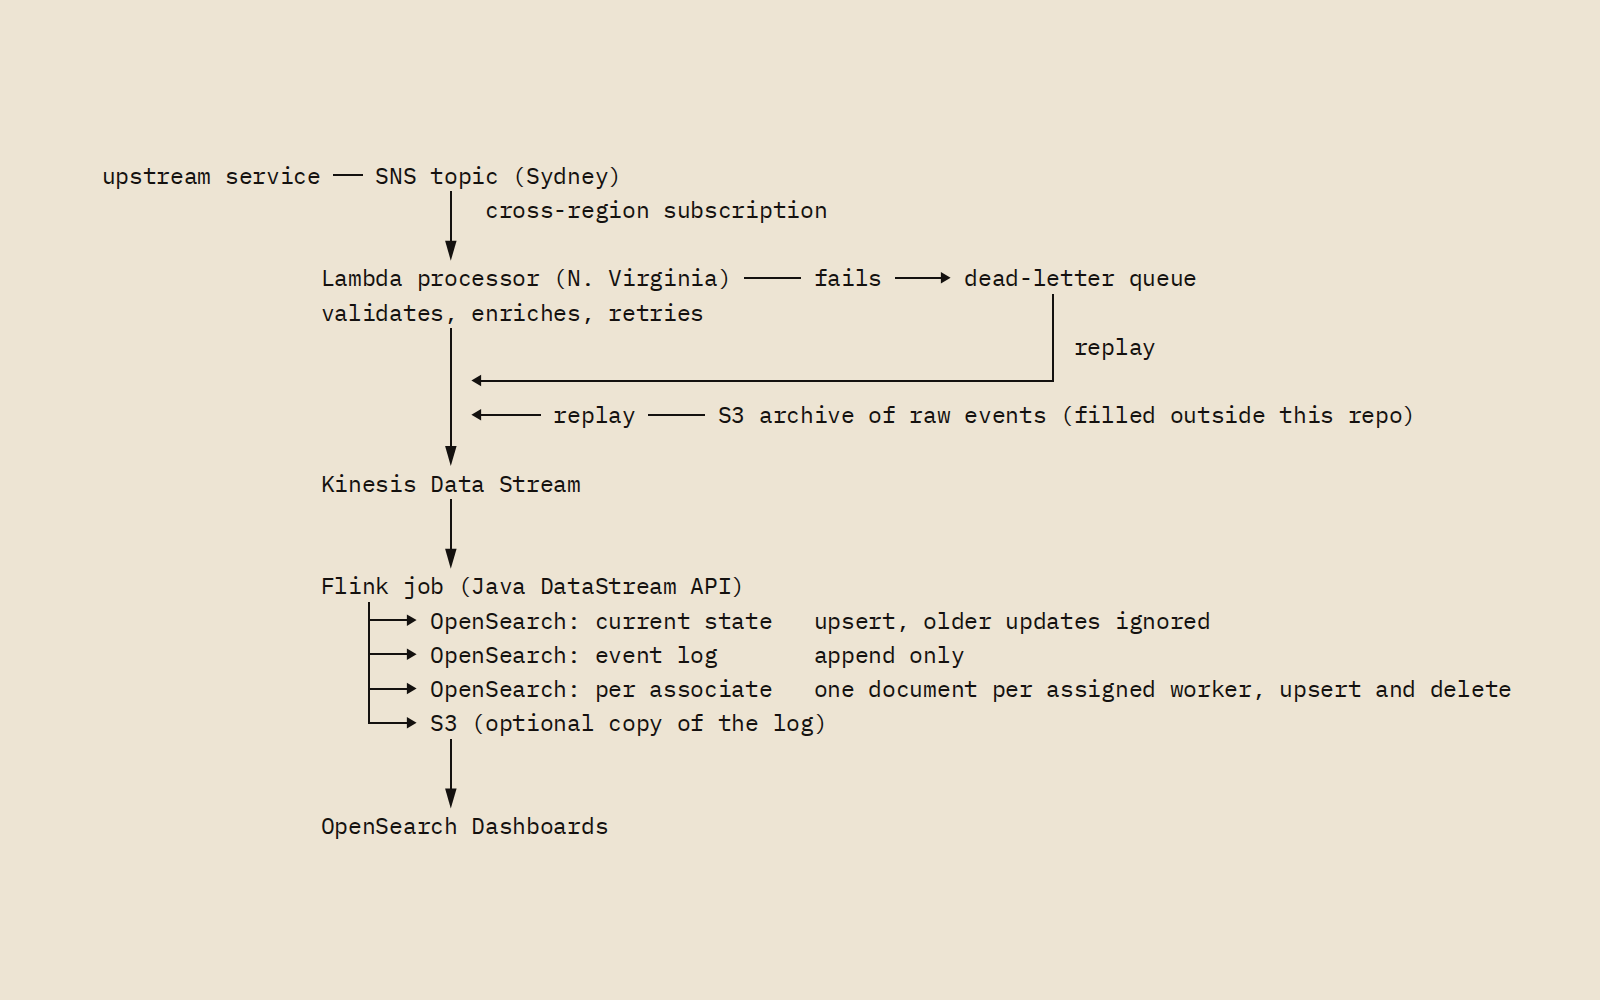
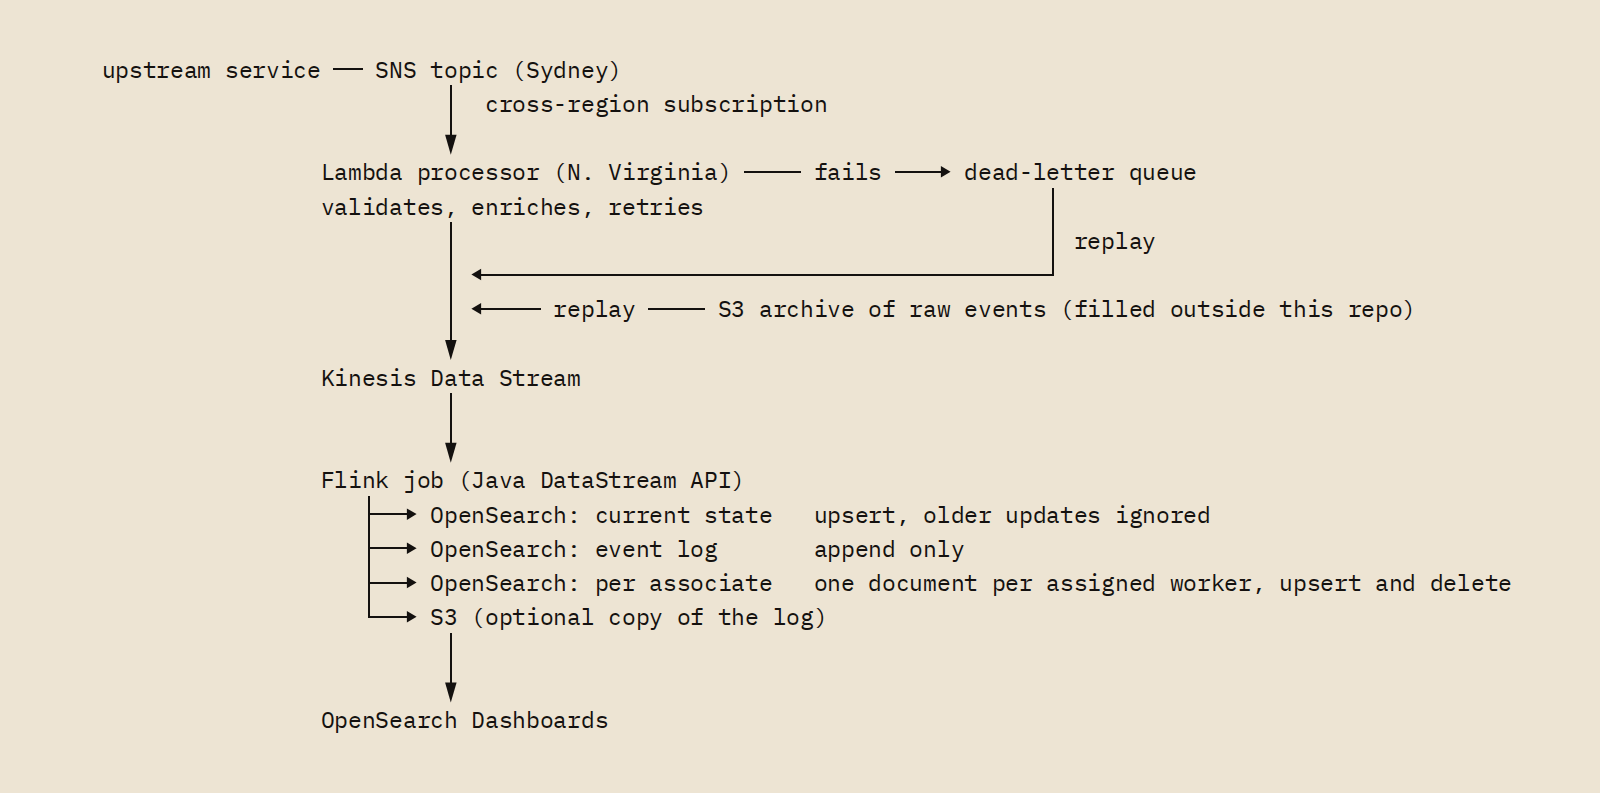
Open a visit's first window nearly full height, and give the Mercor row its number
The first project a hiring manager saw was a dark box reading "No public pictures",
the Projects list opened at 640 x 520 (4 of 17 rows), and a project page's first
screen was its title, summary and a cover with about 80 px of empty band above and
below, so the first sentence of prose sat below the fold (T52 review, fix 7).

- A visit's first window (the boot's About, or the window a window address names;
  the room flags it in its open message) opens at max(own width, 880) by the
  desktop's height less 24 px. Later windows cascade at their own sizes; the
  Personal folder keeps its size.
- The Mercor row shows a typographic card, "88 million / mentions resolved in one
  run": the project page's own line ("One run of entity resolution resolved 88
  million mentions") and résumé YAML line 34 ("resolved 88M mentions in one run").
- The six paper-ground diagram covers lose their empty bands, down to a 6 % margin
  (lossless PNG crops; photos and white-ground figures unchanged).

diff --git a/src/os/wm/windows.ts b/src/os/wm/windows.ts
@@ -40,6 +40,8 @@ export type WindowsAction =
       desktop: { width: number; height: number };
       focus: boolean;
       origin?: Point | null;
+      /** The window a visit lands on (a window address); the boot's own window is first anyway. */
+      first?: boolean;
     }
   | { type: 'focus'; id: string }
   | { type: 'close'; id: string }
@@ -81,7 +83,7 @@ export function windowsReducer(state: WindowsState, action: WindowsAction): Wind
         z: state.nextZ,
         minimized: false,
         maximized: false,
-        frame: frameFor(action.route, state.cascade, action.desktop),
+        frame: frameFor(action.route, state.cascade, action.desktop, action.first || state.cascade === 0),
         focusRequest: action.focus ? 1 : 0,
         origin: action.origin ?? null,
       };
@@ -146,6 +148,10 @@ const ICON_ROW = 88;
 const ICON_COLUMN = 92;
 const ICONS_TOP = 12;
 const CASCADE_STEP = 28;
+// A visit's first window (About, or the window its address names) stands nearly the desktop's height, so its opening
+// lines are above the fold; later windows cascade at their own sizes.
+const FIRST_WIDTH = 880;
+const FIRST_MARGIN = 12;
 
 // Short desktops wrap the icons into more columns; new windows open to the right of all of them.
 function iconGutter(desktopHeight: number): number {
@@ -154,12 +160,17 @@ function iconGutter(desktopHeight: number): number {
 }
 
 /** Where a new window opens: cascading down-right from the icon column, always inside the desktop. */
-export function frameFor(route: Route, cascade: number, desktop: { width: number; height: number }): Frame {
+export function frameFor(route: Route, cascade: number, desktop: { width: number; height: number }, first = false): Frame {
   const size = route.slug && (route.app === 'projects' || route.app === 'blog') ? SIZES.reader : SIZES[route.app];
+  const clamp = (value: number, max: number) => Math.max(8, Math.min(value, max));
+  // The folder is a handful of icons: it keeps its size even when it opens first.
+  if (first && route.app !== 'personal') {
+    const width = Math.min(Math.max(size.width, FIRST_WIDTH), desktop.width - 16);
+    return { x: clamp(iconGutter(desktop.height), desktop.width - width - 8), y: FIRST_MARGIN, width, height: desktop.height - 2 * FIRST_MARGIN };
+  }
   const width = Math.min(size.width, desktop.width - 16);
   const height = Math.min(size.height, desktop.height - 16);
   const step = (cascade % 8) * CASCADE_STEP;
-  const clamp = (value: number, max: number) => Math.max(8, Math.min(value, max));
   return {
     x: clamp(iconGutter(desktop.height) + step, desktop.width - width - 8),
     y: clamp(16 + step, desktop.height - height - 8),

diff --git a/tests/os.spec.ts b/tests/os.spec.ts
@@ -306,6 +306,32 @@ test.describe('desktop', () => {
     await expect(caption.getByRole('link')).toHaveAttribute('href', /10\.1371\/journal\.pone\.0319532/);
   });
 
+  /**
+   * Catches a visit's first window opening at its list or reader size, with its opening lines below the fold, and
+   * later windows that stop cascading at their own size (T52 fix 7).
+   */
+  test('the first window of a visit stands nearly the desktop’s height; later ones cascade at their own size', async ({ page }) => {
+    await page.goto(`/os?embed=1#projects/${PROJECT.slug}`);
+    const desktop = (await page.locator('.os-desktop').boundingBox())!;
+    const first = page.getByRole('dialog', { name: PROJECT.title });
+    // Polled, because a window opens on a spring from 94% scale.
+    await expect.poll(async () => (await first.boundingBox())!.height).toBeGreaterThan(desktop.height - 30);
+    await page.getByRole('navigation', { name: 'Apps' }).getByRole('button', { name: 'Writing', exact: true }).dblclick();
+    const later = page.getByRole('dialog', { name: 'Writing' });
+    await expect.poll(async () => (await later.boundingBox())!.height).toBeLessThan(desktop.height - 100);
+    expect((await later.boundingBox())!.y).toBeGreaterThan((await first.boundingBox())!.y);
+  });
+
+  /** Catches the first project a hiring manager sees showing "No public pictures" instead of its one number (T52 fix 7). */
+  test('Projects opens on the Mercor work with its number in place of a picture', async ({ page }) => {
+    await page.goto('/os?embed=1#projects');
+    const list = page.getByRole('dialog', { name: 'Projects' });
+    const first = list.locator('.os-row').first();
+    await expect(first).toHaveAttribute('href', '#projects/entity-resolution-and-anonymization');
+    await expect(first.locator('.os-thumb-card')).toHaveText('88 million mentions resolved in one run');
+    await expect(list.getByText('No public pictures')).toHaveCount(0);
+  });
+
   /** Catches a Films window that stops explaining its list: the label, the stars and when the diary last updated. */
   test('Films labels the diary and shows when it last updated', async ({ page }) => {
     // One more entry than the window shows at first, so the older entries are one button away.

diff --git a/src/scene/Application/MonitorScreen.ts b/src/scene/Application/MonitorScreen.ts
@@ -17,6 +17,11 @@ export type MonitorEvent =
   /** Escape that the OS itself did not use (no menu open): the visitor wants out of the screen. */
   | { type: 'escape' };
 
+export interface OpenOptions {
+  /** The window the visit lands on (a window address): SaahilOS opens it at the height of a visit's first window. */
+  first?: boolean;
+}
+
 /**
  * The monitor as Henry built it: a CSS3D iframe placed at the glass, an invisible GL plane that writes alpha 0 so the
  * iframe shows through (and nearer geometry still covers it), and glass layers drawn over the hole.
@@ -29,7 +34,7 @@ export class MonitorScreen {
   private readonly normal: THREE.Vector3;
   private readonly pixelSize: { width: number; height: number };
   private ready = false;
-  private queued: string | null = null;
+  private queued: { target: string; options: OpenOptions } | null = null;
   private readonly onMessage: (event: MessageEvent) => void;
 
   constructor(
@@ -119,10 +124,11 @@ export class MonitorScreen {
   }
 
   /** Opens an app in the OS (PLAN 3.7 target, e.g. "about" or "films/la-la-land"), once the OS says it is ready. */
-  open(target: string) {
+  open(target: string, options: OpenOptions = {}) {
     if (!this.iframe) return;
-    if (this.ready && this.iframe.contentWindow) this.iframe.contentWindow.postMessage({ type: 'open', target }, location.origin);
-    else this.queued = target;
+    if (this.ready && this.iframe.contentWindow) {
+      this.iframe.contentWindow.postMessage({ type: 'open', target, first: Boolean(options.first) }, location.origin);
+    } else this.queued = { target, options };
   }
 
   /** The OS's front window (`films`, `about/…`, or '' for none): SaahilOS names it in its own location hash. */
@@ -151,9 +157,9 @@ export class MonitorScreen {
       case 'os-ready':
         this.ready = true;
         if (this.queued) {
-          const target = this.queued;
+          const { target, options } = this.queued;
           this.queued = null;
-          this.open(target);
+          this.open(target, options);
         }
         break;
       case 'escape':

diff --git a/src/os/apps/Lists.tsx b/src/os/apps/Lists.tsx
@@ -1,6 +1,6 @@
 import { PixelIcon } from '../assets/PixelIcon';
 import { formatDay } from '../format';
-import type { OsApi, OsImage, OsProject } from '../types';
+import type { OsApi, OsImage, OsProject, OsProjectCard } from '../types';
 
 export interface Row {
   href: string;
@@ -10,10 +10,18 @@ export interface Row {
   metaDateTime?: string;
   /** Present on rows that show a picture: the cover, or null for a project with none. */
   thumb?: OsImage | null;
+  /** In place of a missing picture: the project's one number, set as type. */
+  card?: OsProjectCard;
 }
 
 // The row's link text names the project, so its picture is decorative here (alt="").
-function Thumb({ image, large }: { image: OsImage | null; large: boolean }) {
+function Thumb({ image, card, large }: { image: OsImage | null; card?: OsProjectCard; large: boolean }) {
+  if (!image && card)
+    return (
+      <span className="os-thumb os-thumb-card">
+        <strong>{card.figure}</strong> <span>{card.caption}</span>
+      </span>
+    );
   if (image)
     return (
       <span className="os-thumb">
@@ -61,7 +69,7 @@ export function DetailsList({
         {rows.map((row) => (
           <li key={row.href}>
             <a className="os-row" href={row.href} data-thumb={row.thumb !== undefined || undefined}>
-              {row.thumb !== undefined && <Thumb image={row.thumb} large={large} />}
+              {row.thumb !== undefined && <Thumb image={row.thumb} card={row.card} large={large} />}
               <span className="os-row-name">
                 {row.thumb === undefined && <PixelIcon name="page" size={16} />}
                 <span>{row.title}</span>
@@ -84,6 +92,7 @@ const projectRow = (p: OsProject): Row => ({
   summary: p.summary,
   meta: p.years ?? String(p.year),
   thumb: p.cover ?? null,
+  card: p.card,
 });
 
 export function ProjectsApp({ os }: { os: OsApi }) {

diff --git a/src/os/SaahilOS.tsx b/src/os/SaahilOS.tsx
@@ -58,7 +58,7 @@ export default function SaahilOS({ index, embedded: embeddedProp }: SaahilOSProp
   const powerRef = useRef(power);
   powerRef.current = power;
 
-  const open = useCallback((target: string, focus = true, from?: Element | null) => {
+  const open = useCallback((target: string, focus = true, from?: Element | null, first = false) => {
     const route = parseTarget(target);
     if (!route) return;
     const desktop = desktopRef.current;
@@ -75,6 +75,7 @@ export default function SaahilOS({ index, embedded: embeddedProp }: SaahilOSProp
       route,
       focus,
       origin,
+      first,
       desktop: {
         width: desktop?.clientWidth ?? window.innerWidth,
         height: desktop?.clientHeight ?? window.innerHeight,
@@ -126,7 +127,7 @@ export default function SaahilOS({ index, embedded: embeddedProp }: SaahilOSProp
       const data = event.data as { type?: unknown; target?: unknown } | null;
       if (data?.type !== 'open' || typeof data.target !== 'string') return;
       if (powerRef.current !== 'on') setPower('on');
-      open(data.target);
+      open(data.target, true, null, (data as { first?: unknown }).first === true);
     };
     // An Escape no menu used asks the room to step back from the screen; checked after every listener has run.
     const onKeyDown = (event: KeyboardEvent) => {

diff --git a/src/os/os.css b/src/os/os.css
@@ -466,6 +466,29 @@ body.os-moving iframe {
   object-fit: cover;
 }
 
+.os-thumb-card {
+  align-content: center;
+  gap: 3px;
+  padding: 6px;
+  background: var(--walnut);
+  color: var(--paper);
+  text-align: center;
+}
+
+.os-thumb-card strong {
+  font-family: var(--font-serif);
+  font-size: 21px;
+  font-weight: 400;
+  line-height: 1;
+}
+
+.os-thumb-card span {
+  font-family: var(--font-sans);
+  font-size: 10px;
+  line-height: 1.2;
+  color: var(--dust);
+}
+
 .os-thumb-empty {
   padding: 8px;
   background: var(--os-desk);
@@ -2090,6 +2113,19 @@ body.os-moving iframe {
   html:not([data-embedded]) .os-details[data-large] .os-thumb {
     width: 88px;
     height: 55px;
+  }
+
+  html:not([data-embedded]) .os-thumb-card {
+    gap: 2px;
+    padding: 3px;
+  }
+
+  html:not([data-embedded]) .os-thumb-card strong {
+    font-size: 15px;
+  }
+
+  html:not([data-embedded]) .os-thumb-card span {
+    font-size: 9px;
   }
 
   html:not([data-embedded]) .os-desktop-foot {

diff --git a/src/os/build-data.ts b/src/os/build-data.ts
@@ -16,6 +16,7 @@ import type {
   OsImage,
   OsPhotograph,
   OsPicture,
+  OsProjectCard,
   OsWallpaper,
   OvenList,
 } from './types';
@@ -88,6 +89,13 @@ export async function osImage(src: ImageMetadata, alt: string): Promise<OsImage>
   const image = await getImage({ src, widths: COVER_WIDTHS, format: 'webp', quality: 78 });
   return { src: image.src, srcset: image.srcSet.attribute, width: src.width, height: src.height, alt };
 }
+
+// Mercor's work has no public pictures; its row in Projects shows the one number the page and the résumé publish.
+const PROJECT_CARDS: Record<string, OsProjectCard> = {
+  'entity-resolution-and-anonymization': { figure: '88 million', caption: 'mentions resolved in one run' },
+};
+
+export const projectCard = (slug: string): OsProjectCard | undefined => PROJECT_CARDS[slug];
 
 export const projectFigures = (slug: string): Promise<OsFigure[]> =>
   Promise.all(

diff --git a/src/os/types.ts b/src/os/types.ts
@@ -56,8 +56,15 @@ export interface OsProject {
   featured: boolean;
   links: { repo?: string; paper?: string; demo?: string; page?: string; pypi?: string };
   cover?: OsImage;
+  /** In the list, a project with no picture to show shows its one number instead. */
+  card?: OsProjectCard;
   /** Further pictures shown after the write-up, each with its source in the caption. */
   figures: OsFigure[];
+}
+
+export interface OsProjectCard {
+  figure: string;
+  caption: string;
 }
 
 export interface OsPost {

diff --git a/src/scene/Application/Application.ts b/src/scene/Application/Application.ts
@@ -306,7 +306,7 @@ export class Application implements RoomHandle {
     else {
       // A window address lands ready: the camera in front of the monitor at once, the window already open on it.
       this.glide('monitor', 'fast', endIntro, true);
-      if (open) this.monitor.open(open);
+      if (open) this.monitor.open(open, { first: true });
     }
     // The intro runs as long as its flight does; a cut has already landed it.
     this.intro = this.camera.moving;
